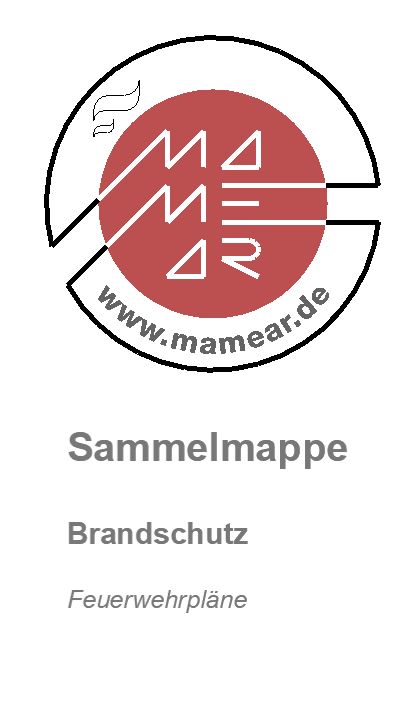
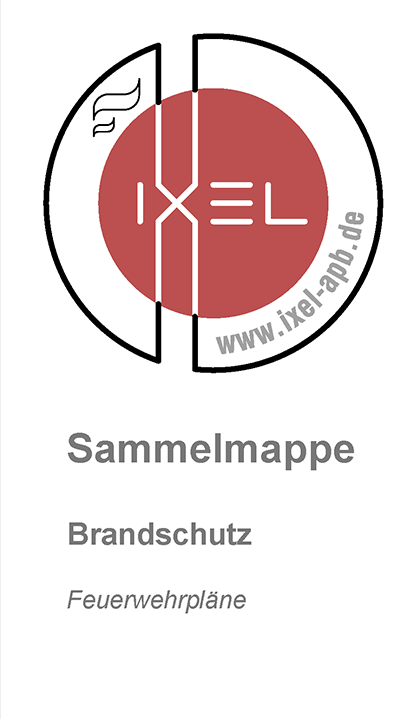
ixel

diff --git a/projekte/2018_EMa_Ew_Verw_Kw34/2018_EMa_Ew_Verw_Kw34.html b/projekte/2018_EMa_Ew_Verw_Kw34/2018_EMa_Ew_Verw_Kw34.html
@@ -22,6 +22,9 @@
 <div><img data-src="projekte/2018_EMa_Ew_Verw_Kw34/61.png"><div>...</div></div>
 <div><img data-src="projekte/2018_EMa_Ew_Verw_Kw34/62.png"><div>...</div></div>
 <div><img data-src="projekte/2018_EMa_Ew_Verw_Kw34/63.png"><div>...</div></div>
+<div><img data-src="projekte/2018_EMa_Ew_Verw_Kw34/80.png"><div>Fotos</div></div>
+<div><img data-src="projekte/2018_EMa_Ew_Verw_Kw34/81.png"><div>...</div></div>
+<div><img data-src="projekte/2018_EMa_Ew_Verw_Kw34/82.png"><div>...</div></div>
 
 </div>
 </div>
@@ -66,7 +69,7 @@
   <div>Zeitler Architekten BDA</div>
 
   <div>Bearbeiter: *</div>
-  <div>mm</div>
+  <div>hg, sl, mm</div>
 
 </div>
 
@@ -80,7 +83,7 @@ sit amet.
 </p>
 
 <p>
-<i>*) mm=Mathias Meißner</i>
+<i>*) hg=Heike Gundlach (LP 6-9), sl=Sebastian Lorenz (LP 5), mm=Mathias Meißner (LP 1-4)</i>
 </p>
 
 <a href="/#projekte">Zurück zur Projektübersicht</a>

diff --git a/index.html b/index.html
@@ -3,7 +3,7 @@
 
 <head>
 <meta charset="utf-8">
-<title>mamear.de</title>
+<title>ixel-apb.de</title>
 <link rel="stylesheet" href="styles.css">
 <script src="index.js"></script>
 <script src="https://smtpjs.com/v3/smtp.js"></script>
@@ -15,7 +15,7 @@
       <div class="main">
         <div><img src="images/logo.png"></div>
         <a class="link" href="/">
-          <b>mamear // architektur- & planungsbüro</b>
+          <b>ixel-apb.de // architektur- & planungsbüro</b>
           <span> </span>
         </a>
       </div>
@@ -95,7 +95,7 @@
 
   <div class="footer">
     <div class="copyright center">
-      © 2020 mamear.de | Alle Rechte vorbehalten | <a href="/#impressum" onclick='window.scrollTo(0, 0)'>Impressum</a>
+      © 2020 ixel-apb.de | Alle Rechte vorbehalten | <a href="/#impressum" onclick='window.scrollTo(0, 0)'>Impressum</a>
     </div>
   </div>
 

diff --git a/impressum.html b/impressum.html
@@ -1,10 +1,11 @@
 <h2>Impressum</h2>
-<p>Mathias Meißner<br>
-Julius-Kühn-Str. 4<br>
-06112 Halle (Saale)</p>
+<p>ixel-apb.de<br>
+c/o mathias meißner<br>
+Franz-Gresitza-Str. 64<br>
+07749 Jena</p>
 <p>Telefon: +49-345-44572727<br>
 Mobil: +49-171-5132735<br>
-E-Mail: <a href="mailto:mail@mamear.de">mail@mamear.de</a></p>
+E-Mail: &#109;<span class="hide">a href="mailto:apb@ixel-apb.de"</span>&#97;<!-- a href="mailto:ab@ixel-apb.de" -->&#105;&#108;&commat;<!-- a href="mailto:pb@ixel-apb.de" -->&#105;&#120;&#101;&#108;&#45;&#97;&#112;&#98;&period;&#100;&#101;</p>
 <p>Verantwortlich für den Inhalt nach § 55 Abs. 2 RStV: Mathias Meißner</p>
 <p>Technische Umsetzung: Andreas Meißner (2014), Christian Schulz (2020)<br>
 Layout & Fotos: Mathias Meißner<br></p>

diff --git a/profil.html b/profil.html
@@ -16,7 +16,7 @@ Abhängig von der gewünschten Bearbeitungstiefe und der Bauaufgabe gehören auc
 
 
 <h2>Tätigkeitsfelder</h2>
-<div><img src="profil/mamear-tun.png"></div>
+<div><img src="profil/profil_tun.png"></div>
 
 <br>
 
@@ -33,7 +33,7 @@ Abhängig von der gewünschten Bearbeitungstiefe und der Bauaufgabe gehören auc
   <div><h3>Beruf</h3></div>
 
   <div>05/2022 - ...</div>
-  <div>mamear.de / Jena</div>
+  <div>ixel-apb.de / Jena</div>
 
   <div>02/2020</div>
   <div><b>Eintragung in die "Liste der Fachplaner für vorbeugenden Brandschutz"</b> der AK LSA [120-20-NB]</div>

diff --git a/projekte.html b/projekte.html
@@ -1,8 +1,8 @@
 <p>
 Hier finden sich bisher bearbeitete Projekte unterschiedlicher Bearbeitungstiefe aus den Bereichen 
-Entwurf (Vorentwurfs-, Genemigungs – und Ausführungsplanung),
-Brandschutz (Konzepte, Flucht- und Rettungswegpläne, Feuerwehrpläne) und
-Wärmeschutz (Konzepte nach EnEV und Wärmebrücken)
+Entwurf (Vorentwurfs-, Genehmigungs – und Ausführungsplanung),
+Brandschutz (Konzepte, Flucht-, Rettungsweg- und Feuerwehrpläne) und
+Wärmeschutz (Konzepte nach EnEV und Wärmebrückenuntersuchungen)
 in Sammel- oder (examplarische Entwürfe in) Einzelmappen.  
 </p>
 

diff --git a/kontakt.html b/kontakt.html
@@ -1,8 +1,8 @@
 <h2>Post</h2>
 
-<p>mamear</b><br>
-Fritz-Reuter-Str. 6<br>
-07745 Jena
+<p>ixel-apb.de</b><br>
+Franz-Gresitza-Str. 64<br>
+07749 Jena
 </p>
 
 <br>
@@ -15,7 +15,9 @@ Fritz-Reuter-Str. 6<br>
   <div>8 - 18 Uhr</div>
   
   <div><b>MAIL</b></div>
-  <div>mail@mamear.de</div>
+  <div>
+    &#109;<span class="hide">a href="mailto:apb@ixel-apb.de"</span>&#97;<!-- a href="mailto:ab@ixel-apb.de" -->&#105;&#108;&commat;<!-- a href="mailto:pb@ixel-apb.de" -->&#105;&#120;&#101;&#108;&#45;&#97;&#112;&#98;&period;&#100;&#101;
+  </div>
      
 </div>
 

diff --git a/start.html b/start.html
@@ -1,5 +1,5 @@
 <p>
-  <i>„ … und all das ist in guten Momenten für eine Weile mehr als die Summe der einzelnen Teile …“</i><br>
+  <i>„ … und all Das / ist in guten Momenten / für eine Weile / mehr als die Summe / der einzelnen Teile …“</i><br>
   [Kante „Die Summe der einzelnen Teile“ (2001)]
 </p>
 

diff --git a/styles.css b/styles.css
@@ -192,6 +192,14 @@ p {
   box-sizing: border-box;
 }
 
+.page .kontakt .hide {
+display: none
+}
+
+.page .impressum .hide {
+display: none
+}
+
 .page .start .gallery {
   display: grid;
   grid-template-columns: 230px 230px 230px 230px;
